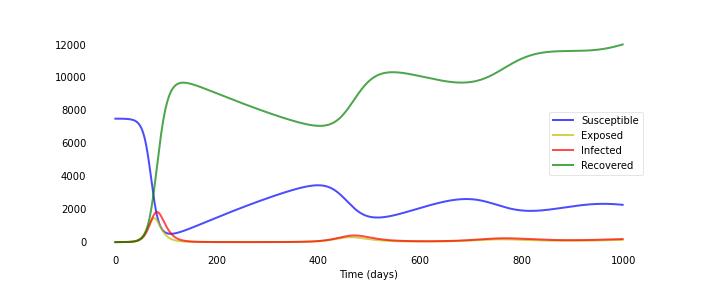
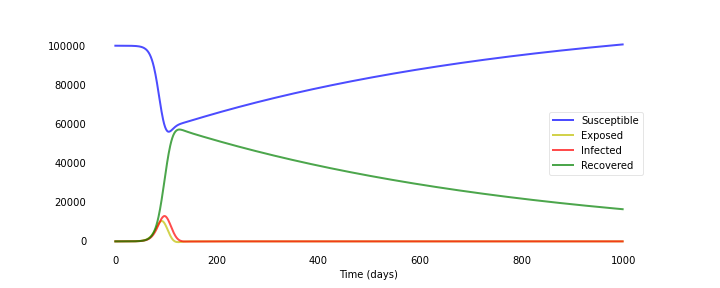
Lägger till beteende
Försöker få beteende att vara en variabel av antal sjuka, ger detta resultat. Kan det vara att detta beteende ändras direkt i takt med antal sjuka, och därför ser kurvan ut så? Vill nästa gång lägga till att beteendet ändras ca 14 dagar efter att insjuknade har ökat, vet inte hur jag ska göra det

diff --git a/SIR_model-Copy1.py b/SIR_model-Copy1.py
@@ -8,37 +8,39 @@ import matplotlib.pyplot as plt
 
 
 # describe the model
-def deriv(y, t, N, beta, gamma, delta,theta):
-    S, E, I, R = y
-    dSdt = -beta * S * I / N + theta * R# S(t) – susceptible (de som är mottagliga för infektion).
-    dEdt = beta * S * I / N - gamma * E #Exposed (har blivit utsatta för sjukdomen)
+def deriv(y, t, N, beta, gamma, delta, theta, my):
+    S, E, I, R ,B = y
+    dBdt = my * I / N
+    dSdt = -beta * (1-B) * S * I / N + theta * R# S(t) – susceptible (de som är mottagliga för infektion).
+    #dEdt = beta *(1-B) * S * I / N - gamma * E #Exposed (har blivit utsatta för sjukdomen)
     dIdt = delta * E - gamma * I # I(t) – infected (de som har pågående infektion)
     dRdt = gamma * I - theta * R #Removed (tillfrisknar)
-    return dSdt, dEdt, dIdt, dRdt
+    return dSdt, dIdt, dRdt, dBdt
 
 
 
 
 # describe the parameters
-N =  7500 #Totala befolkningen N=s(t)+I(t)+R(t)
+N =  100000 #Totala befolkningen N=s(t)+I(t)+R(t)
 D = 7 #Hur länge infektionen varar
 gamma = 1.0 / D #Removal (hur många som tillfrisknar per dag)
 delta = 1.0 / 5.0 #incubation period of five days
 theta = 0.01 / D #tidigarer immuna som insjuknar igen
+my = 0.3
 R_0 = 2.5 #Reproduktionstalet  
 beta = R_0 * gamma #r_0=beta/gamma. antal som smittas per infekterad och per tid (beror på virusets egenskaper samt hur vi beter oss).  
-S0, E0, I0, R0 = N-1, 1, 0, 0  # initial conditions: one infected, rest susceptible
+S0,I0, R0, B0 = N-1, 1, 0, 0, 0  # initial conditions: one infected, rest susceptible
  
 #Rt = R0 * S(t)/Ntot* (1 – b). b = effekt av policy och beteendeförändringar
 
 
 
 t = np.linspace(0, 999, 1000) # Grid of time points (in days)
-y0 = S0, E0, I0, R0 # Initial conditions vector
+y0 = S0,I0, R0, B0 # Initial conditions vector
  
 # Integrate the SIR equations over the time grid, t.
-ret = odeint(deriv, y0, t, args=(N, beta, gamma, delta,theta))
-S, E, I, R = ret.T
+ret = odeint(deriv, y0, t, args=(N, beta, gamma, delta,theta,my))
+S, I, R, B = ret.T
 
 
 
